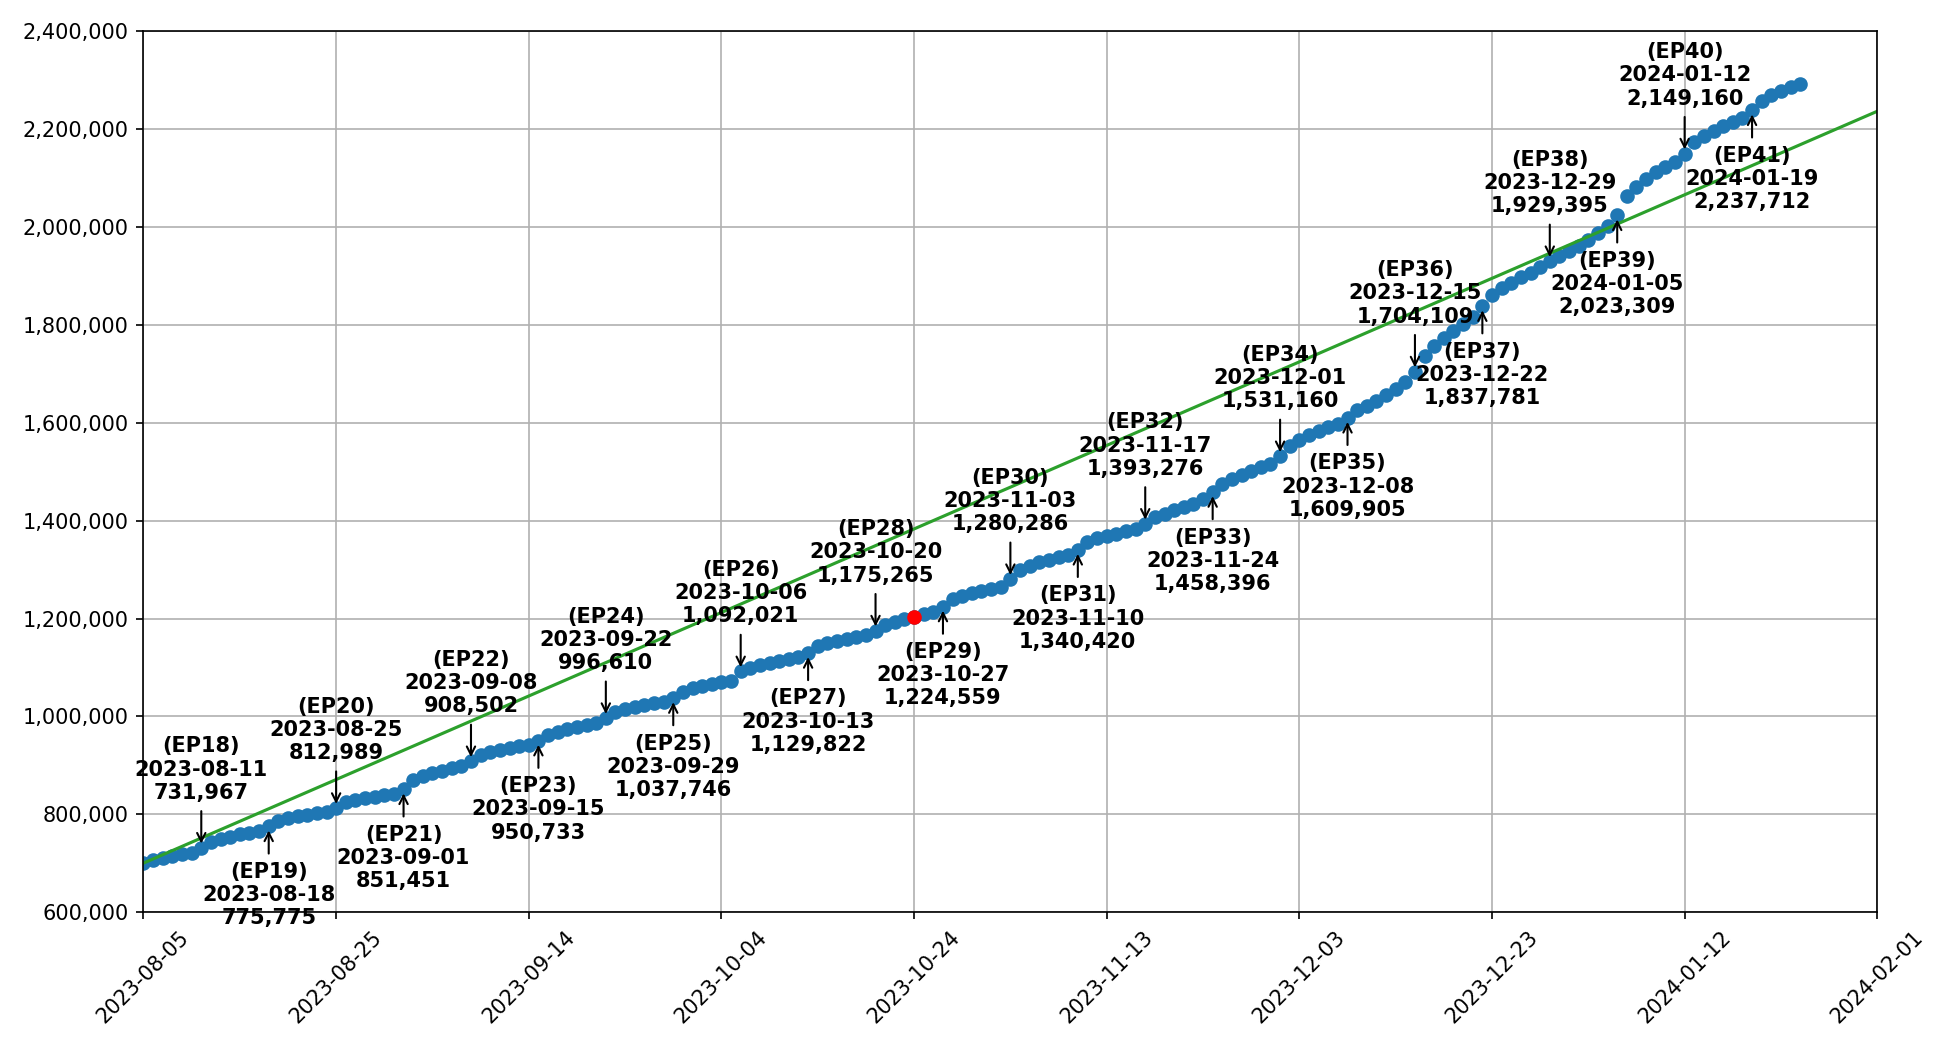
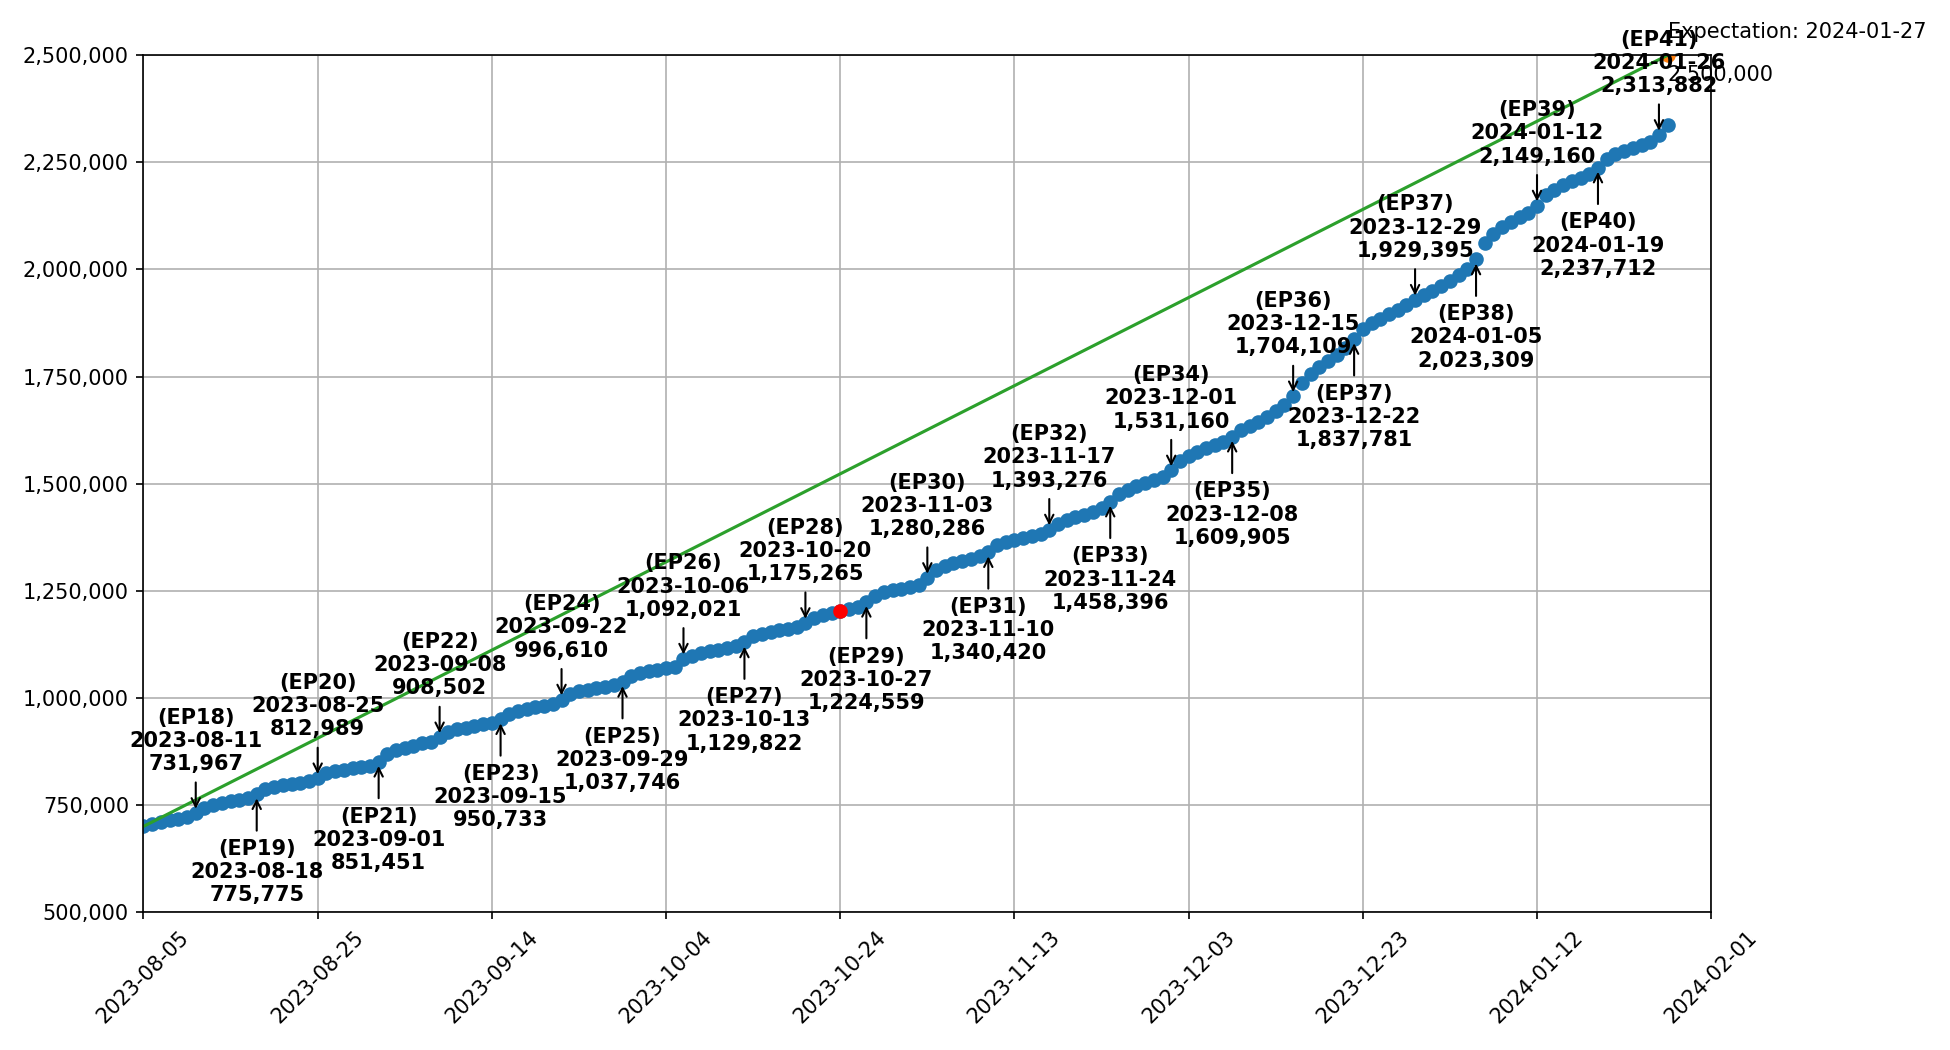
Change expectation model

diff --git a/src/lib/prediction.py b/src/lib/prediction.py
@@ -1,4 +1,5 @@
 from sklearn.linear_model import LinearRegression
+from sklearn.tree import DecisionTreeRegressor
 import pandas as pd
 import matplotlib.pyplot as plt
 import datetime
@@ -14,10 +15,12 @@ successedDate = [80]
 X = df["date"]
 y = df["totalCount"]
 
-goal = 2000000
+goal = 2500000
 
-line_fitter = LinearRegression()
+line_fitter = DecisionTreeRegressor(criterion="squared_error")
 line_fitter.fit(y.values.reshape(-1, 1), X)
+# line_fitter = LinearRegression()
+# line_fitter.fit(y.values.reshape(-1, 1), X)
 
 print(line_fitter.predict([[goal]]))
 
@@ -57,9 +60,12 @@ placing = 100000
 sehasu_ep_start = 18
 for i in range(len(X)):
     if (i + 1) % 7 == 0:
+        curr = sehasu_ep_start + int(((i + 1) / 7) - 1)
+        if curr >= 38:
+            curr -= 1
         plt.annotate(
             "(EP"
-            + str(sehasu_ep_start + int(((i + 1) / 7) - 1))
+            + str(curr)
             + ")\n"
             + (startingDate + datetime.timedelta(days=int(X[i]))).strftime("%Y-%m-%d")
             + "\n"
@@ -71,7 +77,7 @@ for i in range(len(X)):
             arrowprops=dict(arrowstyle="->", color="black"),
         )
         if placing == 100000:
-            placing = -200000
+            placing = -250000
         else:
             placing = 100000
 # 예측기능 범위 시작
